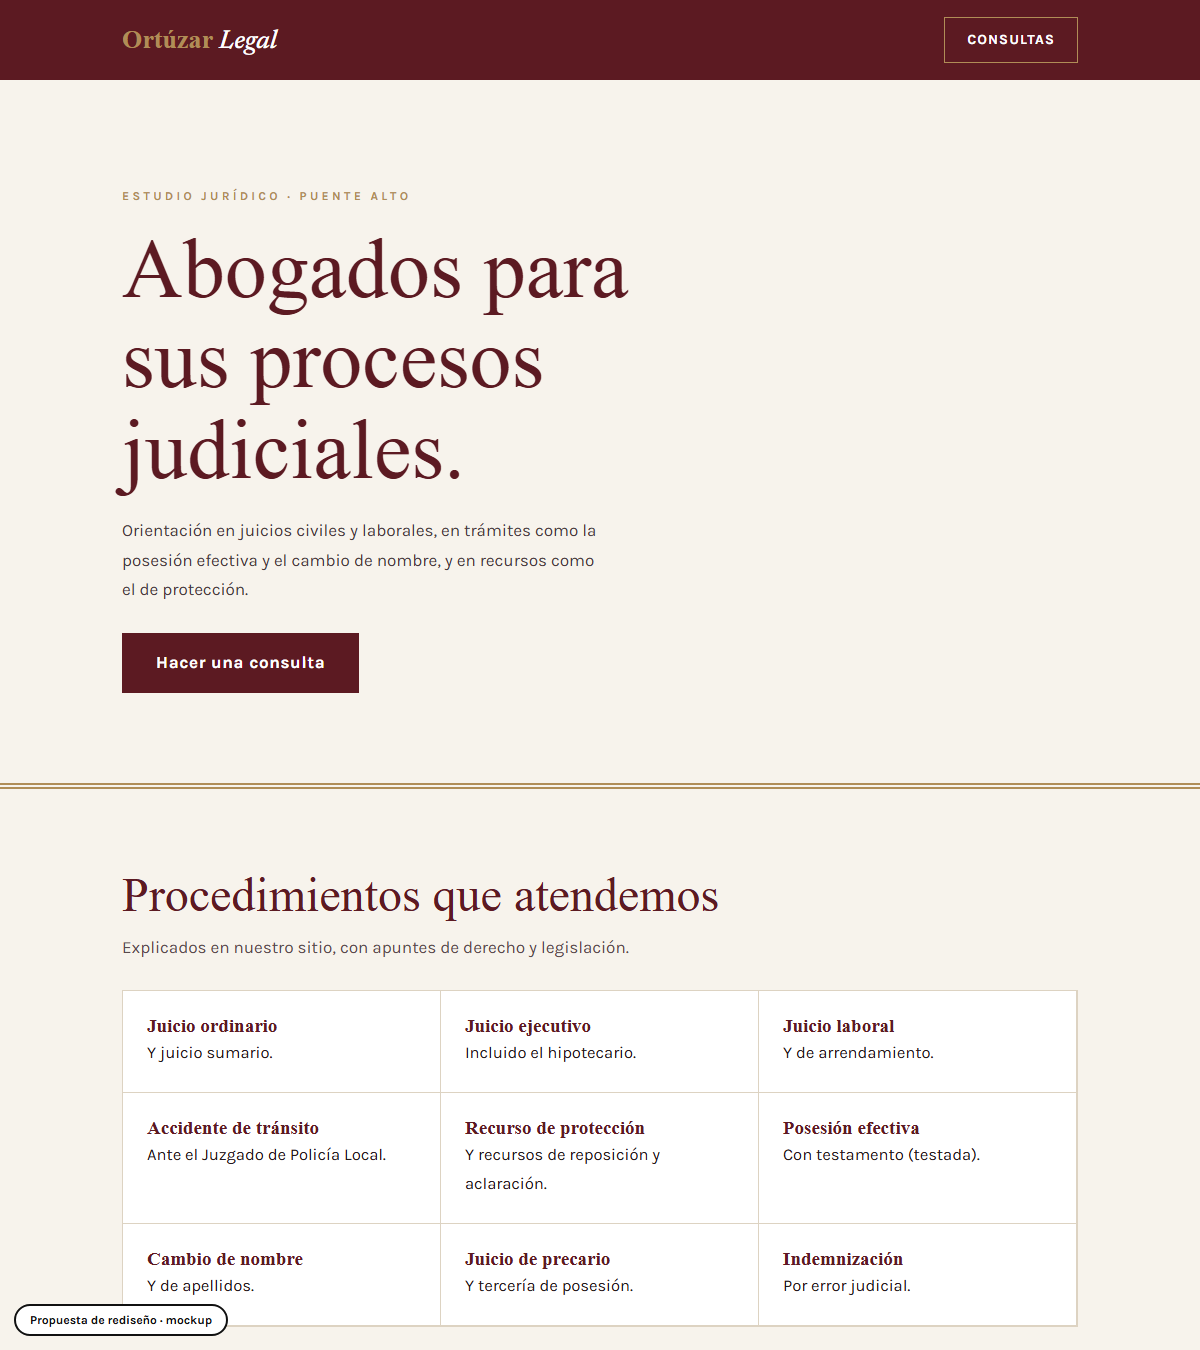
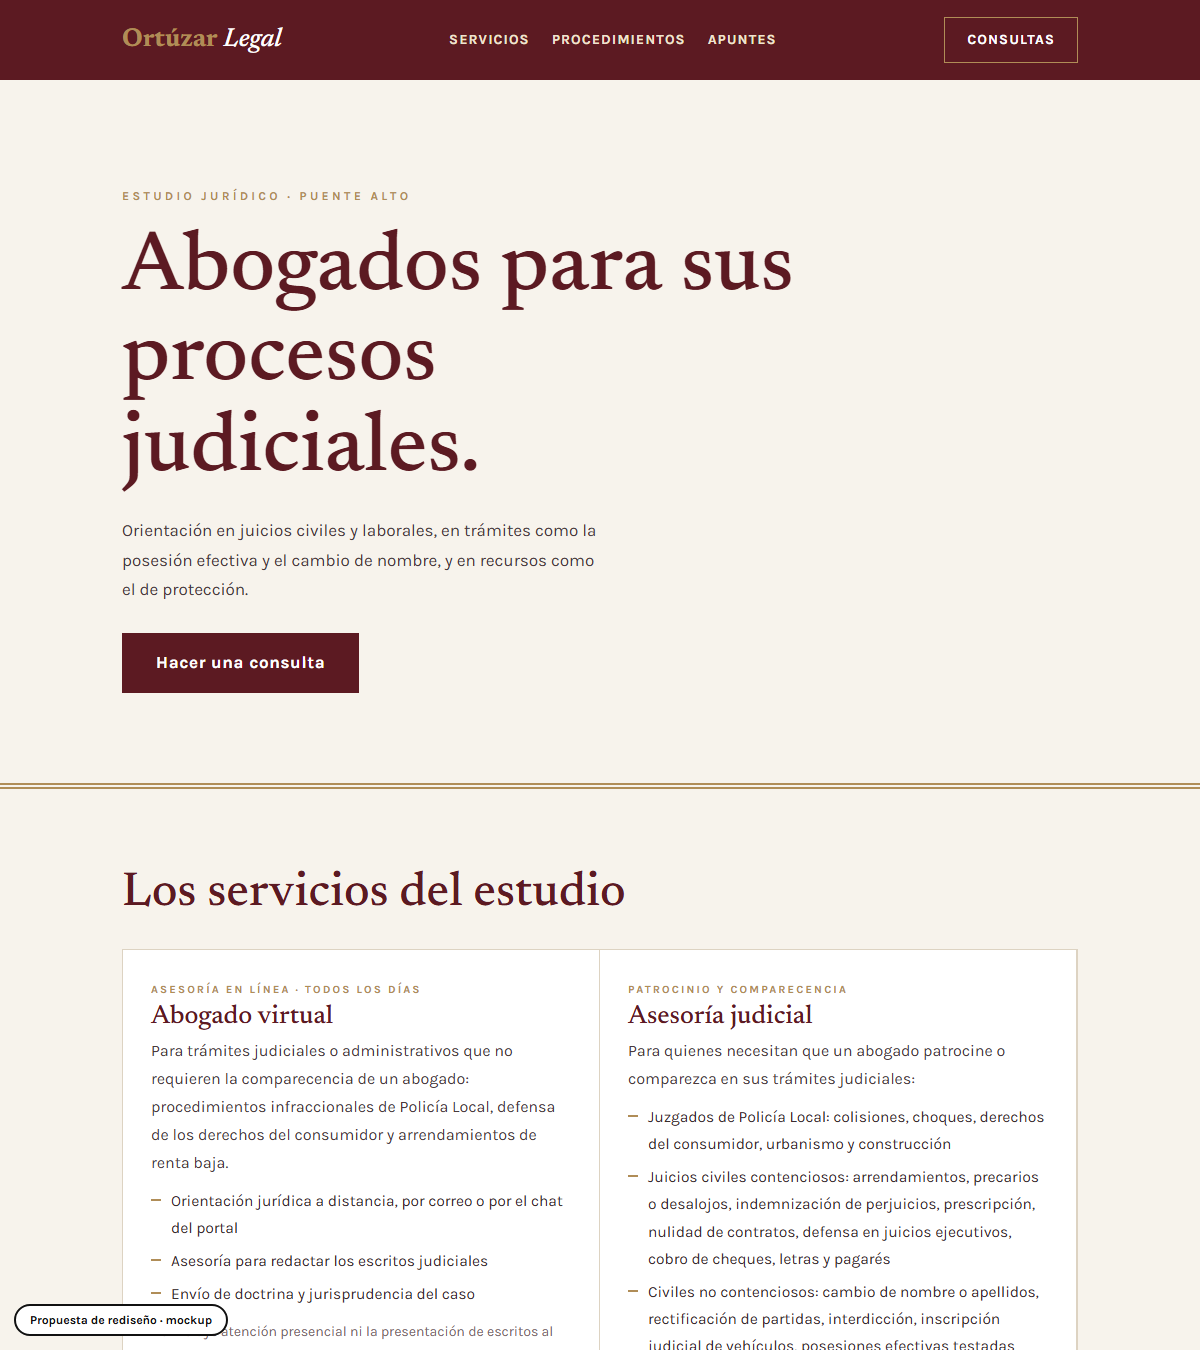
Mockup: ortuzar-legal-puente-alto

diff --git a/ortuzar-legal-puente-alto/index.html b/ortuzar-legal-puente-alto/index.html
@@ -6,12 +6,12 @@
 <link href="https://fonts.googleapis.com/css2?family=Newsreader:ital,wght@0,500;0,700;1,500&family=Karla:wght@400;500;700&display=swap" rel="stylesheet">
 <style>
 :root{--wine:#5c1a22;--brass:#b08d57;--paper:#f7f3ec;--ink:#241a1c;--line:#ddd3c2}
-*{box-sizing:border-box;margin:0}html{scroll-behavior:smooth}
+*{box-sizing:border-box;margin:0}html{scroll-behavior:smooth;scroll-padding-top:100px}
 @media(prefers-reduced-motion:reduce){html{scroll-behavior:auto}}
 body{background:var(--paper);color:var(--ink);font:400 17px/1.75 Karla,sans-serif}
 .wrap{max-width:1000px;margin:0 auto;padding:0 22px}
 h1,h2,h3{font-family:Newsreader,serif;font-weight:500;line-height:1.08}
-header{background:var(--wine);color:#fff}header .wrap{display:flex;justify-content:space-between;align-items:center;min-height:80px;gap:12px}
+header{position:sticky;top:0;z-index:20;background:var(--wine);color:#fff}header .wrap{display:flex;justify-content:space-between;align-items:center;min-height:80px;gap:12px}
 .brand{font:italic 500 26px Newsreader}.brand b{font-weight:700;font-style:normal;color:var(--brass)}
 header a{color:#fff;text-decoration:none;border:1px solid var(--brass);padding:10px 22px;font-weight:700;font-size:14px;letter-spacing:.08em;text-transform:uppercase}
 header a:hover{background:var(--brass);color:var(--wine)}
@@ -27,12 +27,20 @@ section{padding:80px 0}h2{font-size:clamp(30px,4.4vw,48px);margin-bottom:12px;co
 .contact{background:var(--wine);color:#fff;text-align:center}.contact h2{color:#fff}.contact a.l{display:block;font:italic 500 clamp(34px,6vw,64px) Newsreader;color:var(--brass);text-decoration:none;margin:10px 0}
 .contact a.l:hover{color:#fff}
 footer{padding:22px 0 90px;text-align:center;font-size:12px;letter-spacing:.2em;opacity:.55}
-.mock{position:fixed;left:14px;bottom:14px;background:#fff;color:#111;border:2px solid #111;font:700 12px/1 Karla;padding:8px 14px;border-radius:30px;z-index:9}
+.mock{z-index:30;position:fixed;left:14px;bottom:14px;background:#fff;color:#111;border:2px solid #111;font:700 12px/1 Karla;padding:8px 14px;border-radius:30px;z-index:9}
 @media(max-width:800px){.list{grid-template-columns:1fr}.hero .wrap{padding:60px 22px}}
-</style></head><body>
-<header><div class="wrap"><div class="brand"><b>Ortúzar</b> Legal</div><a href="#contacto">Consultas</a></div></header>
+nav{display:flex;gap:22px;font-size:14px;letter-spacing:.08em;text-transform:uppercase;font-weight:700}nav a{color:#f0e3d0;text-decoration:none;border:0;padding:0}nav a:hover{background:none;color:var(--brass)}.sv{display:grid;grid-template-columns:repeat(2,1fr);gap:0;border:1px solid var(--line);margin-top:28px;background:#fff}.sv>div{padding:30px 28px;border:1px solid var(--line);margin:-1px 0 0 -1px}.sv h3{font-size:26px;color:var(--wine);margin-bottom:6px}.sv small{display:block;letter-spacing:.2em;text-transform:uppercase;font-size:11px;color:var(--brass);font-weight:700;margin-bottom:4px}.sv p{font-size:16px;color:#4a3a3d;margin-bottom:8px}.sv ul{list-style:none;padding:0}.sv li{padding:3px 0 3px 20px;position:relative;font-size:15.5px;color:#3a2d30}.sv li:before{content:"";position:absolute;left:0;top:14px;width:10px;height:2px;background:var(--brass)}.fund{background:var(--wine);color:#fff}.fund h2{color:#fff}.fund p{max-width:62ch;color:#e7d5d7}.ap{display:flex;flex-wrap:wrap;gap:10px;margin-top:20px}.ap span{border:1px solid var(--brass);padding:6px 18px;font-size:15px;color:var(--wine);background:#fff}@media(max-width:860px){nav{display:none}.sv{grid-template-columns:1fr}}</style></head><body>
+<header><div class="wrap"><div class="brand"><b>Ortúzar</b> Legal</div><nav><a href="#servicios">Servicios</a><a href="#procedimientos">Procedimientos</a><a href="#apuntes">Apuntes</a></nav><a class="b" href="#contacto">Consultas</a></div></header>
 <div class="hero"><div class="wrap"><small>Estudio jurídico · Puente Alto</small><h1>Abogados para sus procesos judiciales.</h1><p>Orientación en juicios civiles y laborales, en trámites como la posesión efectiva y el cambio de nombre, y en recursos como el de protección.</p><a class="btn" href="#contacto">Hacer una consulta</a></div></div>
-<section><div class="wrap"><h2>Procedimientos que atendemos</h2><p style="max-width:58ch;color:#5a4a4d">Explicados en nuestro sitio, con apuntes de derecho y legislación.</p><div class="list"><div><b>Juicio ordinario</b>Y juicio sumario.</div><div><b>Juicio ejecutivo</b>Incluido el hipotecario.</div><div><b>Juicio laboral</b>Y de arrendamiento.</div><div><b>Accidente de tránsito</b>Ante el Juzgado de Policía Local.</div><div><b>Recurso de protección</b>Y recursos de reposición y aclaración.</div><div><b>Posesión efectiva</b>Con testamento (testada).</div><div><b>Cambio de nombre</b>Y de apellidos.</div><div><b>Juicio de precario</b>Y tercería de posesión.</div><div><b>Indemnización</b>Por error judicial.</div></div></div></section>
+<section id="servicios"><div class="wrap"><h2>Los servicios del estudio</h2><div class="sv">
+<div><small>Asesoría en línea · todos los días</small><h3>Abogado virtual</h3><p>Para trámites judiciales o administrativos que no requieren la comparecencia de un abogado: procedimientos infraccionales de Policía Local, defensa de los derechos del consumidor y arrendamientos de renta baja.</p><ul><li>Orientación jurídica a distancia, por correo o por el chat del portal</li><li>Asesoría para redactar los escritos judiciales</li><li>Envío de doctrina y jurisprudencia del caso</li></ul><p style="font-size:14px;color:#7a6a6d;margin-top:8px">No incluye atención presencial ni la presentación de escritos al tribunal.</p></div>
+<div id="procedimientos"><small>Patrocinio y comparecencia</small><h3>Asesoría judicial</h3><p>Para quienes necesitan que un abogado patrocine o comparezca en sus trámites judiciales:</p><ul><li>Juzgados de Policía Local: colisiones, choques, derechos del consumidor, urbanismo y construcción</li><li>Juicios civiles contenciosos: arrendamientos, precarios o desalojos, indemnización de perjuicios, prescripción, nulidad de contratos, defensa en juicios ejecutivos, cobro de cheques, letras y pagarés</li><li>Civiles no contenciosos: cambio de nombre o apellidos, rectificación de partidas, interdicción, inscripción judicial de vehículos, posesiones efectivas testadas</li><li>Cobranza judicial de indemnizaciones laborales</li><li>Familia: pensión de alimentos, relación directa y regular, divorcio unilateral y de común acuerdo, medidas de protección, bien familiar</li></ul></div>
+<div><small>Inmuebles</small><h3>Estudio de títulos</h3><p>Informe sobre un inmueble habitacional a partir del análisis de contratos, inscripciones, certificados municipales, tasaciones y otros antecedentes.</p></div>
+<div><small>Herencias</small><h3>Posesión efectiva</h3><p>Asesoría en el formulario del Registro Civil de solicitud de posesión efectiva e inventario de bienes, y en los trámites posteriores, como las inscripciones ante el Conservador de Bienes Raíces. Posesión efectiva intestada, testada y abierta en el extranjero.</p></div>
+<div><small>Para estudiantes</small><h3>Preparación del examen de grado</h3><p>Clases en Derecho Constitucional, Civil y Procesal, con una o dos interrogaciones semanales según un programa de estudios definido con el alumno.</p></div>
+<div><small>Extrajudicial</small><h3>Otras asesorías</h3><p>Redacción de contratos, finiquitos, desahucios, cartas de despido y testamentos.</p></div></div></div></section>
+<section class="fund"><div class="wrap"><h2>Abogado fundador</h2><p>Sebastián Ortúzar Fuenzalida, premio a la Excelencia Académica al mejor alumno de su promoción en la carrera de Derecho. Estudio en Santo Domingo, Puente Alto, y en calle Merced, Santiago.</p></div></section>
+<section id="apuntes"><div class="wrap"><h2>Apuntes de derecho y legislación</h2><p style="max-width:62ch;color:#5a4a4d">El sitio reúne apuntes y ensayos de derecho, en constante actualización, y una sección de legislación con la jerarquía de las normas en Chile.</p><div class="ap"><span>Concepto de derecho</span><span>Escrito judicial</span><span>Nociones de derecho internacional</span><span>Introducción al derecho civil</span><span>Derecho administrativo</span><span>Derecho constitucional</span></div></div></section>
 <section class="contact" id="contacto"><div class="wrap"><h2>Consulte con el estudio</h2><a class="l" href="tel:+56232168085">(2) 3216 8085</a><p>Santo Domingo 445, Puente Alto<br><a style="color:#fff" href="mailto:consultas@ortuzarlegal.cl">consultas@ortuzarlegal.cl</a></p></div></section>
 <footer>ABOGADOS ORTÚZAR LEGAL · PUENTE ALTO</footer>
 <div class="mock">Propuesta de rediseño · mockup</div></body></html>
